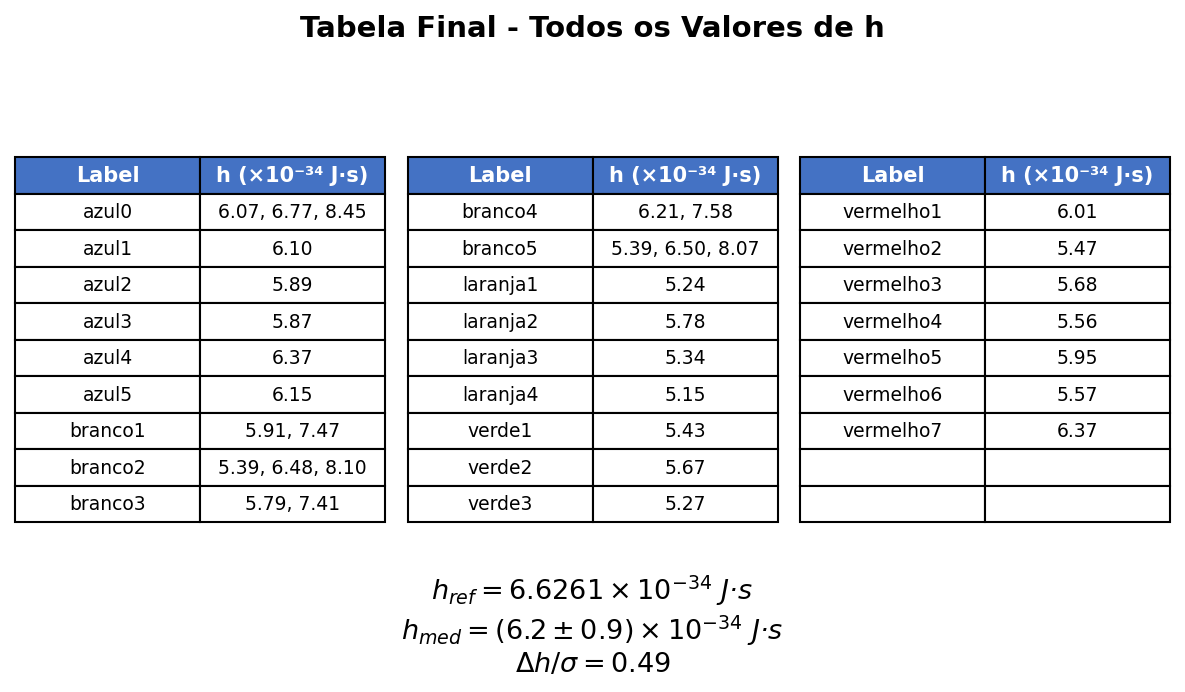
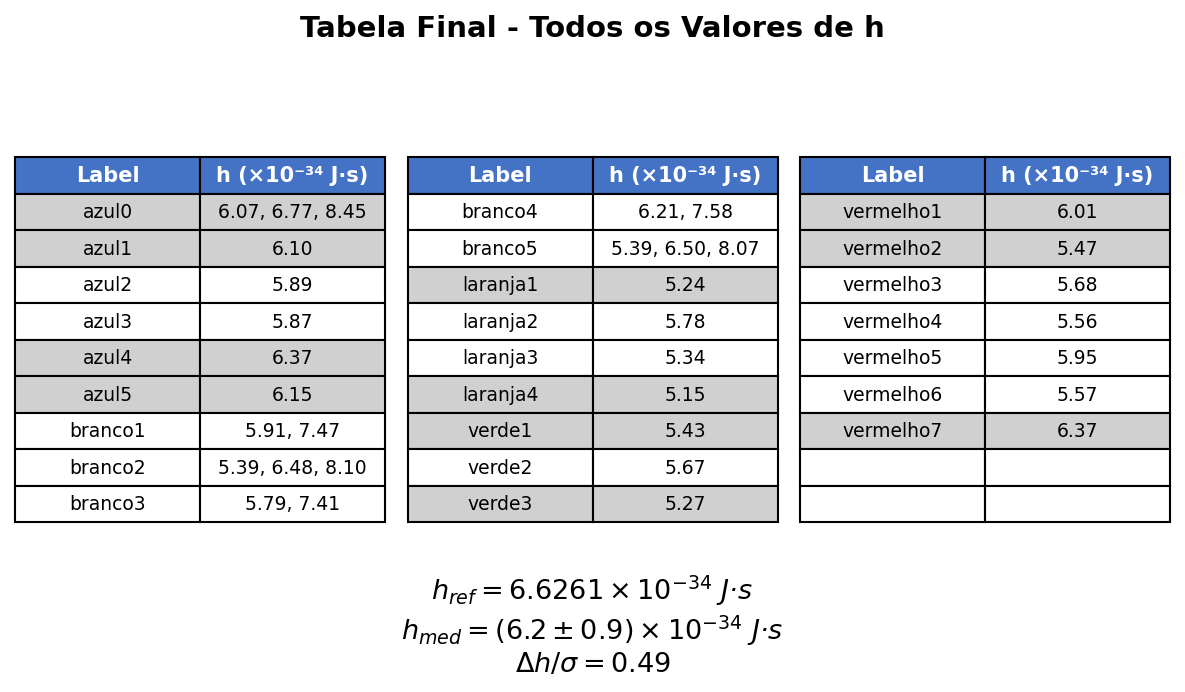
gone daddy gone

Changed region(s): [[0.0, 0.2731, 0.9992, 0.4552], [0.0, 0.4855, 0.9992, 0.6676], [0.3435, 0.698, 0.6557, 0.7587]]

diff --git a/3-Planck/calcular_kb.py b/3-Planck/calcular_kb.py
@@ -1,0 +1,190 @@
+#!/usr/bin/env python3
+"""
+Cálculo da constante de Boltzmann (k_B) usando curva I-V do LED vermelho8.
+
+Relação teórica: I = I0 * exp(e*V/(n*k_B*T))
+Aplicando ln: ln(I) = ln(I0) + (e/(n*k_B*T)) * V
+
+Portanto: k_B = e/(n*S*T), onde S é o coeficiente angular do gráfico ln(I) vs V
+"""
+
+import numpy as np
+import matplotlib.pyplot as plt
+from pathlib import Path
+from typing import Tuple
+
+# =============================
+# PARÂMETROS E CONSTANTES
+# =============================
+PROJECT_DIR = Path(__file__).resolve().parent
+DATA_DIR = PROJECT_DIR / "Dados" / "Tensao_Corrente"
+OUTPUT_DIR = PROJECT_DIR / "Graficos"
+
+# Constantes físicas
+E_CHARGE = 1.602176634e-19  # Carga elementar em C
+K_B_REF = 8.617333262e-5    # Constante de Boltzmann de referência em eV/K
+T_KELVIN = 300.0             # Temperatura ambiente em K
+N_IDEALIDADE = 1.0           # Fator de idealidade do diodo (assumido)
+
+# =============================
+# FUNÇÕES
+# =============================
+
+def load_vermelho8_data() -> Tuple[np.ndarray, np.ndarray]:
+    """
+    Carrega dados de tensão e corrente do vermelho8.
+    Retorna (V, I) em (mV, mA).
+    """
+    file_path = DATA_DIR / "Lab Avançado 2025.2 - vermelho8.csv"
+    
+    if not file_path.exists():
+        raise FileNotFoundError(f"Arquivo não encontrado: {file_path}")
+    
+    data = np.loadtxt(file_path, delimiter=',', skiprows=1)
+    V = data[:, 0]  # mV
+    I = data[:, 1]  # mA
+    
+    return V, I
+
+def linear_fit(x: np.ndarray, y: np.ndarray) -> Tuple[float, float, float]:
+    """
+    Fit linear y = a*x + b usando mínimos quadrados.
+    Retorna (a, b, r²).
+    """
+    n = len(x)
+    x_mean = np.mean(x)
+    y_mean = np.mean(y)
+    
+    numerator = np.sum((x - x_mean) * (y - y_mean))
+    denominator = np.sum((x - x_mean) ** 2)
+    
+    a = numerator / denominator
+    b = y_mean - a * x_mean
+    
+    # Calcula R²
+    y_pred = a * x + b
+    ss_res = np.sum((y - y_pred) ** 2)
+    ss_tot = np.sum((y - y_mean) ** 2)
+    r_squared = 1 - (ss_res / ss_tot)
+    
+    return a, b, r_squared
+
+def calculate_kb(S: float, T: float = T_KELVIN, n: float = N_IDEALIDADE) -> float:
+    """
+    Calcula k_B usando a fórmula: k_B = e/(n*S*T).
+    
+    Parâmetros:
+    - S: coeficiente angular em 1/V (ln(mA) por V)
+    - T: temperatura em K
+    - n: fator de idealidade
+    
+    Retorna k_B em eV/K.
+    """
+    # S está em unidades de 1/mV, precisa converter para 1/V
+    S_per_V = S * 1000.0  # converte de 1/mV para 1/V
+    
+    # k_B = e/(n*S*T), mas e está em C, então resultado é em J/K
+    k_B_joule = E_CHARGE / (n * S_per_V * T)
+    
+    # Converte para eV/K
+    k_B_eV = k_B_joule / E_CHARGE
+    
+    return k_B_eV
+
+def plot_kb_analysis(V: np.ndarray, I: np.ndarray, output_dir: Path) -> None:
+    """
+    Gera gráfico ln(I) vs V com análise de k_B.
+    """
+    # Filtra apenas valores positivos de corrente
+    mask = I > 0
+    V_filtered = V[mask]
+    I_filtered = I[mask]
+    
+    # Calcula ln(I)
+    ln_I = np.log(I_filtered)
+    
+    # Fit linear
+    S, b, r2 = linear_fit(V_filtered, ln_I)
+    
+    # Calcula k_B
+    k_B_calc = calculate_kb(S*10)
+    
+    # Calcula desvio percentual
+    delta_percent = abs(k_B_calc - K_B_REF) / K_B_REF * 100
+    
+    # Cria figura
+    fig, ax = plt.subplots(figsize=(10, 7))
+    
+    # Plota dados
+    ax.plot(V_filtered, ln_I, 'o', color='tab:red', markersize=6, 
+            label='Dados experimentais', alpha=0.7)
+    
+    # Plota fit
+    V_fit = np.linspace(V_filtered.min(), V_filtered.max(), 100)
+    ln_I_fit = S * V_fit + b
+    ax.plot(V_fit, ln_I_fit, '-', color='black', linewidth=2, 
+            label='Ajuste linear')
+    
+    # Configurações do gráfico
+    ax.set_xlabel('Tensão (mV)', fontsize=13)
+    ax.set_ylabel('ln(I) [ln(mA)]', fontsize=13)
+    ax.set_title('Cálculo de $k_B$ - Laser vermelho8', fontsize=14, weight='bold')
+    ax.grid(True, linestyle='--', alpha=0.3)
+    ax.legend(loc='upper left', fontsize=11)
+    
+    # Texto com resultados (estilo similar ao graph4.py)
+    textstr = (
+        f'$S = {S:.4f}$ mV$^{{-1}}$\n'
+        f'$R^2 = {r2:.6f}$\n'
+        f'\n'
+        f'$k_B = \\frac{{e}}{{n \\cdot S \\cdot T}}$\n'
+        f'\n'
+        f'$k_B = {k_B_calc:.4e}$ eV/K\n'
+        f'$k_{{B,ref}} = {K_B_REF:.4e}$ eV/K\n'
+        f'$\\Delta = {delta_percent:.2f}\\%$'
+    )
+    
+    # Adiciona caixa de texto
+    props = dict(boxstyle='round', facecolor='wheat', alpha=0.8)
+    ax.text(0.62, 0.05, textstr, transform=ax.transAxes, fontsize=12,
+            verticalalignment='bottom', bbox=props, family='monospace')
+    
+    # Salva figura
+    output_dir.mkdir(parents=True, exist_ok=True)
+    output_path = output_dir / "calculo_kb_vermelho8.png"
+    fig.tight_layout()
+    fig.savefig(output_path, dpi=150, bbox_inches='tight')
+    plt.close(fig)
+    
+    print(f"\n{'='*60}")
+    print(f"ANÁLISE DA CONSTANTE DE BOLTZMANN (k_B)")
+    print(f"{'='*60}")
+    print(f"Laser: vermelho8")
+    print(f"Temperatura: T = {T_KELVIN} K")
+    print(f"Fator de idealidade: n = {N_IDEALIDADE}")
+    print(f"\nCoeficiente angular: S = {S:.6f} mV⁻¹")
+    print(f"                         S = {S*1000:.6f} V⁻¹")
+    print(f"Coeficiente de determinação: R² = {r2:.6f}")
+    print(f"\nConstante de Boltzmann calculada:")
+    print(f"  k_B = {k_B_calc:.6e} eV/K")
+    print(f"\nConstante de Boltzmann de referência:")
+    print(f"  k_B,ref = {K_B_REF:.6e} eV/K")
+    print(f"\nDesvio:")
+    print(f"  Δ = {delta_percent:.2f}%")
+    print(f"\nGráfico salvo em: {output_path}")
+    print(f"{'='*60}\n")
+
+def main():
+    """Função principal."""
+    print("Carregando dados do vermelho8...")
+    V, I = load_vermelho8_data()
+    
+    print(f"Dados carregados: {len(V)} pontos")
+    print(f"Faixa de tensão: {V.min():.2f} - {V.max():.2f} mV")
+    print(f"Faixa de corrente: {I.min():.4f} - {I.max():.4f} mA")
+    
+    print("\nGerando análise de k_B...")
+    plot_kb_analysis(V, I, OUTPUT_DIR)
+
+if __name__ == "__main__":
+    main()

diff --git a/3-Planck/V_vs_I.py b/3-Planck/V_vs_I.py
@@ -605,6 +605,14 @@ def generate_final_table(
         table_left[(0, i)].set_facecolor('#4472C4')
         table_left[(0, i)].set_text_props(weight='bold', color='white', fontsize=10)
     
+    # Aplica fundo cinza em labels específicos
+    gray_labels = ['vermelho1', 'vermelho7', 'vermelho2', 'laranja4', 'laranja1', 
+                   'verde3', 'verde1', 'azul4', 'azul1', 'azul5', 'azul0']
+    for row_idx, (label, _) in enumerate(results_left, start=1):
+        if label in gray_labels:
+            for col_idx in range(2):
+                table_left[(row_idx, col_idx)].set_facecolor('#D0D0D0')
+    
     # Subtabela centro
     ax_center = fig.add_subplot(1, 3, 2)
     ax_center.axis('tight')
@@ -634,6 +642,12 @@ def generate_final_table(
         table_center[(0, i)].set_facecolor('#4472C4')
         table_center[(0, i)].set_text_props(weight='bold', color='white', fontsize=10)
     
+    # Aplica fundo cinza em labels específicos
+    for row_idx, (label, _) in enumerate(results_center, start=1):
+        if label in gray_labels:
+            for col_idx in range(2):
+                table_center[(row_idx, col_idx)].set_facecolor('#D0D0D0')
+    
     # Subtabela direita
     ax_right = fig.add_subplot(1, 3, 3)
     ax_right.axis('tight')
@@ -662,6 +676,12 @@ def generate_final_table(
     for i in range(2):
         table_right[(0, i)].set_facecolor('#4472C4')
         table_right[(0, i)].set_text_props(weight='bold', color='white', fontsize=10)
+    
+    # Aplica fundo cinza em labels específicos
+    for row_idx, (label, _) in enumerate(results_right, start=1):
+        if label in gray_labels:
+            for col_idx in range(2):
+                table_right[(row_idx, col_idx)].set_facecolor('#D0D0D0')
     
     # Calcula estatísticas
     h_mean = np.mean(all_h_values)
